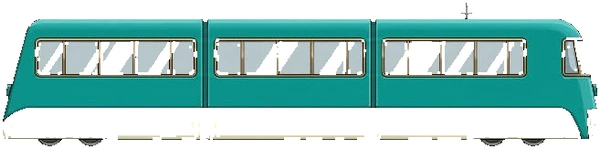
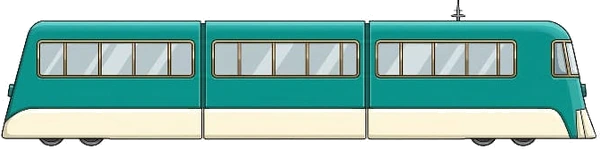
fix(#45): revert Dragutin — user didn't ask for change + prior pipeline over-mutilated it
User flagged: Dragutin had white speckles/holes inside sprite body — the erosion +
white outline pipeline was over-aggressive for the teal tram's cartoon shading,
inventing internal 'transparent' regions that then got white-filled.

Revert: simple threshold-only removal (RGB ≥240 → alpha=0). No erosion, no outline
dilation. Source JZ 711 dragutin.jpeg has clean white bg so threshold is enough.

Also: Linus processed with user's corrected source linus flip2.png (1355×1161 HD, gray
bg ~235-238). Applied threshold + erode + white outline. Sprite preserves engineer
Luigi + full blue locomotive body.

Did NOT touch: Casey, Malivlak — per user's 'jangan edit yang lain' directive.

Cache: v=o → v=p

diff --git a/index.html b/index.html
@@ -6,7 +6,7 @@
 <title>Dunia Emosi 🐾</title>
 <link href="https://fonts.googleapis.com/css2?family=Nunito:wght@400;700;900&family=Fredoka+One&display=swap" rel="stylesheet">
 
-<link rel="stylesheet" href="style.css?v=20260422o">
+<link rel="stylesheet" href="style.css?v=20260422p">
 </head>
 <body>
 <!-- Loading indicator — hidden by JS after page loads -->
@@ -2056,6 +2056,6 @@ function loadPixiJS(cb) {
   document.head.appendChild(s)
 }
 </script>
-<script src="game.js?v=20260422o" defer></script>
+<script src="game.js?v=20260422p" defer></script>
 </body>
 </html>
